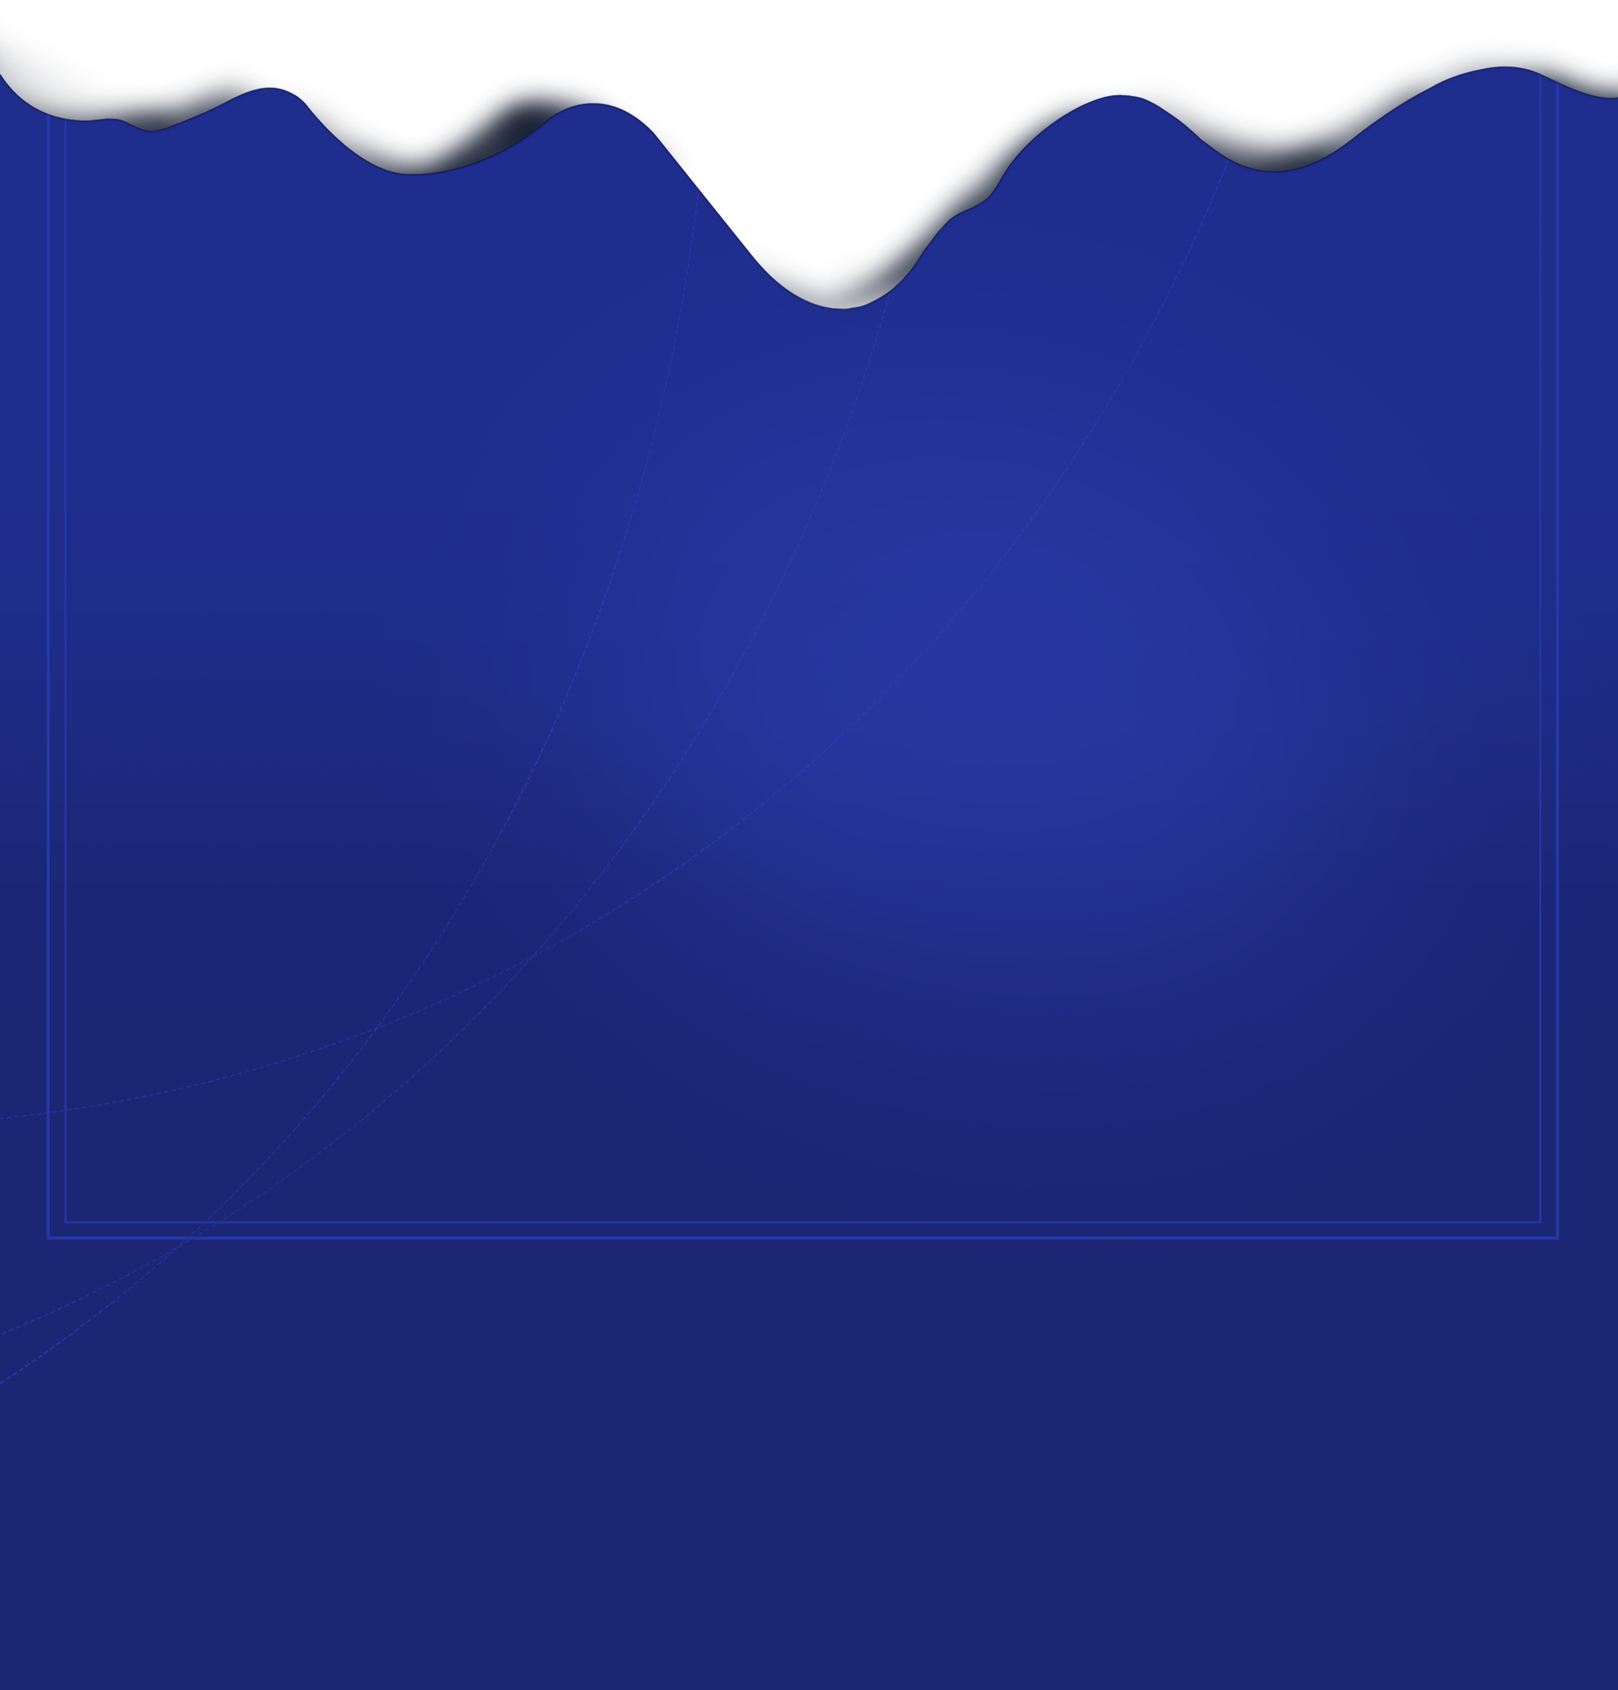
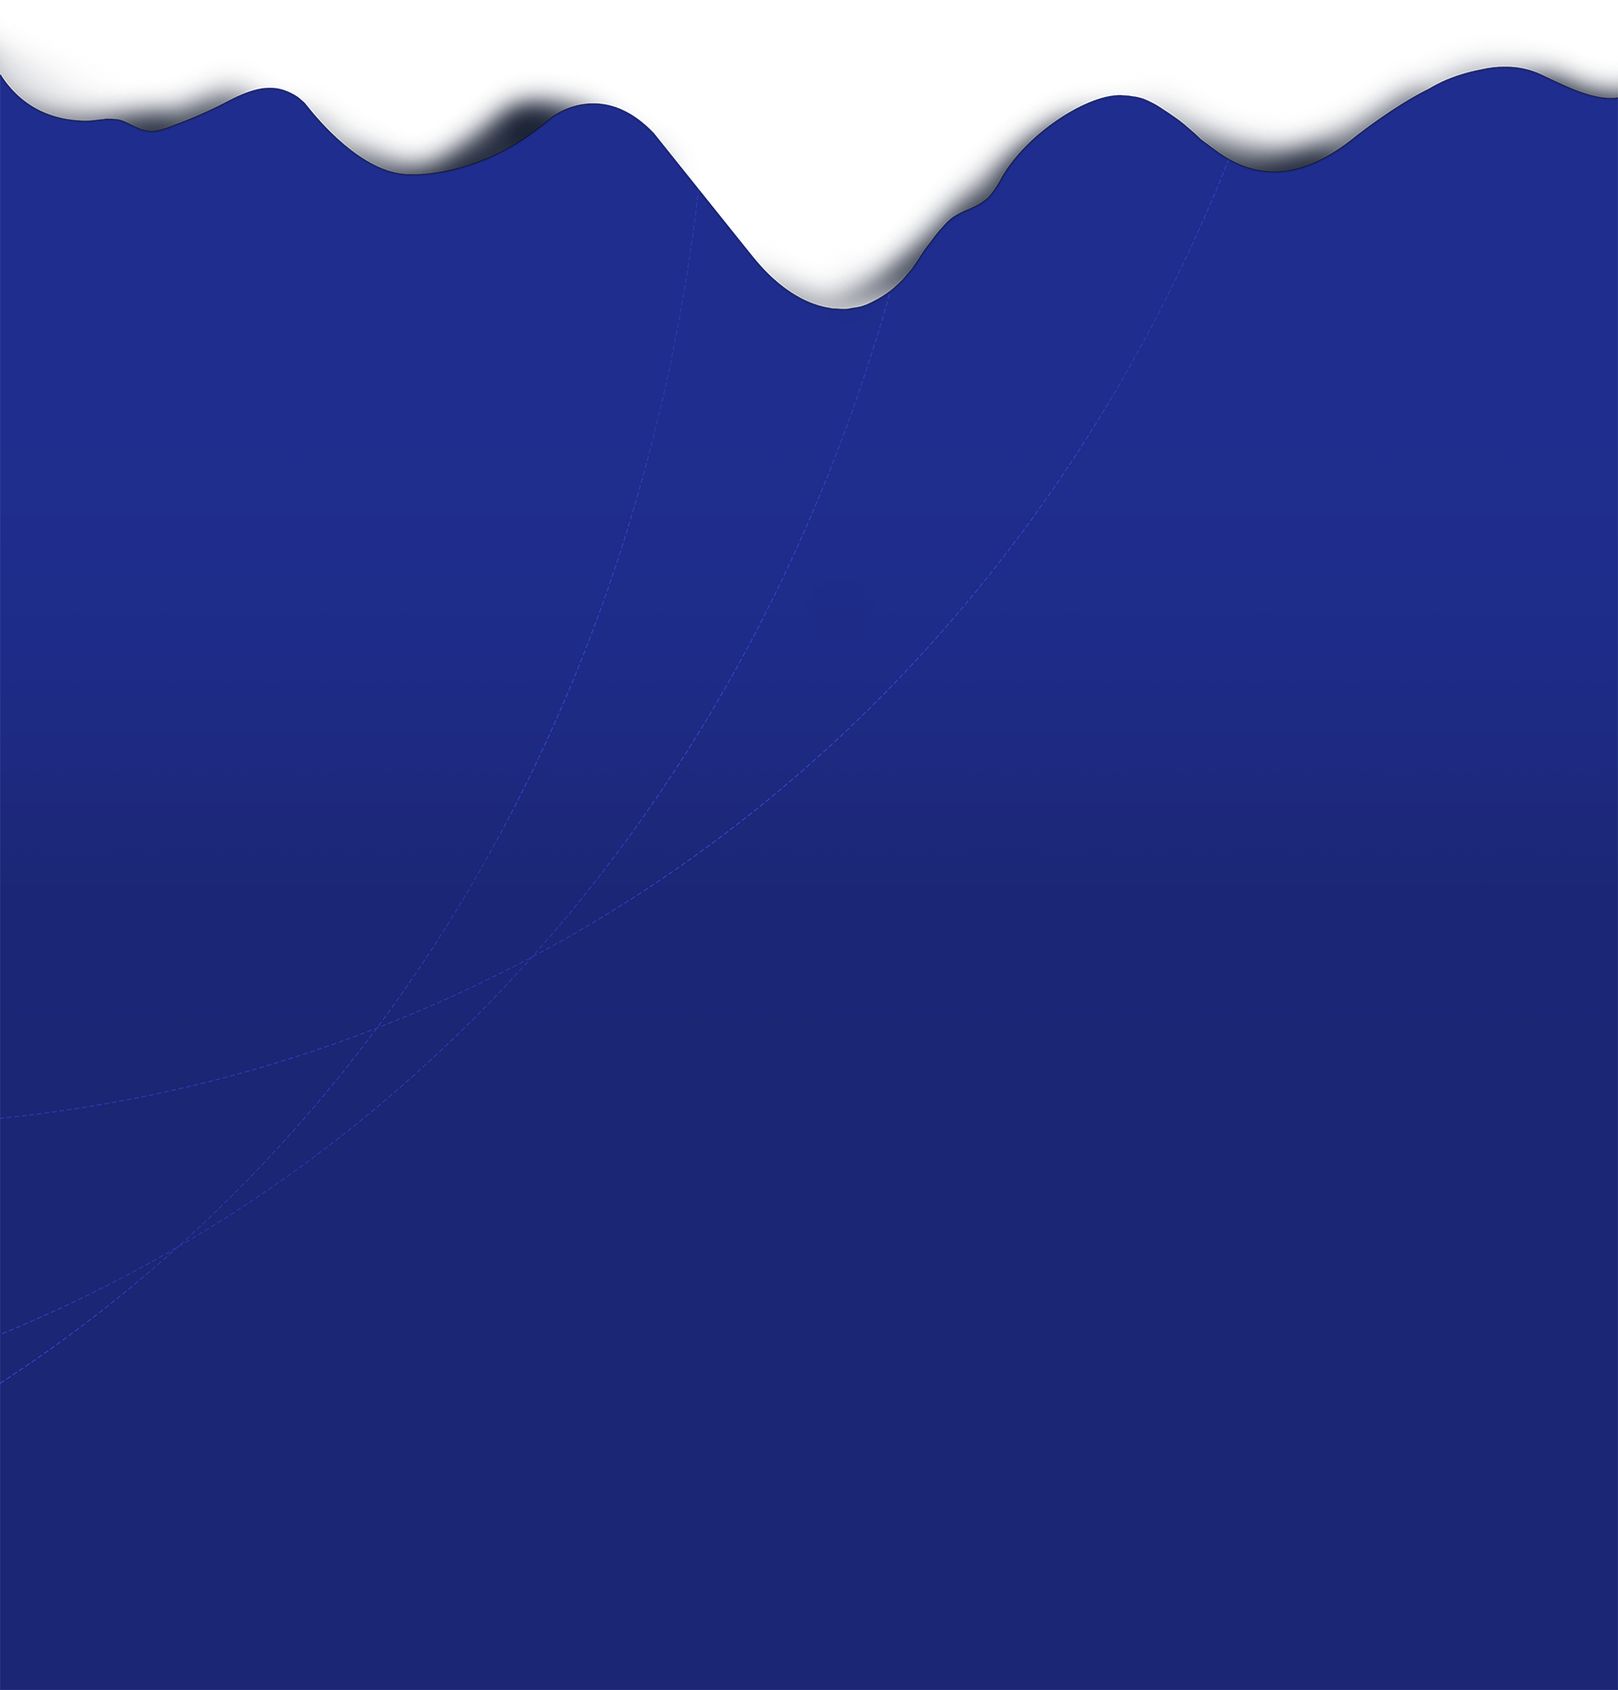
update

Changed region(s): [[0.4688, 0.3711, 0.7812, 0.5566], [0.9375, 0.7112, 0.9688, 0.7421]]

diff --git a/index.html b/index.html
@@ -118,18 +118,18 @@
             </div>
           </div>
           <div class="col-lg-6 pt-4 pt-lg-0 order-2 order-lg-1 content" data-aos="fade-right">
-            <h3>Epoch is one of the three E.M.I.T. systems, has three scenes and one NFT market.</h3>
+            <h3>Epoch is one of the three E.M.I.T. systems, has multiple scenes and NFT market.</h3>
             <p class="fst-italic">
               EMIT-Epoch hosts all economic actions and production processes in the EMIT multiverse and has infinite number of cumulative scenes.
             </p>
             <ul>
-              <li><i class="bi bi-check-circle"></i> <b>ALTER</b> - NFT creation and forging for the Epoch ecosystem.</li>
+              <li><i class="bi bi-check-circle"></i> <b>ALTAR</b> - NFT creation and forging for the Epoch ecosystem.</li>
               <li><i class="bi bi-check-circle"></i> <b>CHAOS</b> - For token generation in the Epoch ecosystem.</li>
               <li><i class="bi bi-check-circle"></i> <b>TEAM MINING</b> - Allows users to obtain NE and LIGHT more easily.</li>
               <li><i class="bi bi-check-circle"></i> <b>NFT MARKET</b> - For NFT trading in the Epoch ecosystem.</li>
               <li><i class="bi bi-check-circle"></i> <b>STAR GRID</b> - The first decentralized application scene based on the model of wargame deduction.</li>
             </ul>
-            <a href="https://docs.emit.technology/emit-documents/emit-community/emit-genesis-league" target="_blank" class="read-more">Read More <i class="bi bi-long-arrow-right"></i></a>
+            <a href="https://docs.emit.technology/emit-documents/" target="_blank" class="read-more">Read More <i class="bi bi-long-arrow-right"></i></a>
           </div>
         </div>
 
@@ -201,6 +201,17 @@
               </div>
             </div>
           </div>
+          <div>
+            <div class="row d-flex align-items-center justify-content-center" data-aos="zoom-in" data-aos-delay="150">
+              <div class="col-lg-6 col-11 order-1">
+                <img src="./assets/img/epoch/02/stargrid.png" class="img-fluid"/>
+              </div>
+              <div class="col-lg-6 col-10 order-2 justify-content-start mt-3">
+                <h2 class="text-dark">Star Grid</h2>
+                <div class="text-dark">The first decentralized application scene based on the model of wargame deduction.</div>
+              </div>
+            </div>
+          </div>
 
           <div class="section-title mt-5" data-aos="zoom-in" data-aos-delay="150">
             <h2 class="text-dark">Future Plan</h2>
@@ -208,23 +219,23 @@
           </div>
 
           <div class="row justify-content-center d-flex"   data-aos="fade-up">
-            <div class="row justify-content-center">
-              <div class="plan-cart plan-cart-bg1">
-                <div style="position: relative">
-                  <div>
-                    <div class="t">December 2021</div>
-                    <div class="c">StarGrid</div>
-                  </div>
-                  <div class="n">
-                    20<br/>21
-                  </div>
-                </div>
-                <div class="f">
-                  <div style="float: left;color: #fff">Clan</div>
-                  <div style="text-align: center">Official New Scene</div>
-                </div>
-              </div>
-            </div>
+<!--            <div class="row justify-content-center">-->
+<!--              <div class="plan-cart plan-cart-bg1">-->
+<!--                <div style="position: relative">-->
+<!--                  <div>-->
+<!--                    <div class="t">December 2021</div>-->
+<!--                    <div class="c">StarGrid</div>-->
+<!--                  </div>-->
+<!--                  <div class="n">-->
+<!--                    20<br/>21-->
+<!--                  </div>-->
+<!--                </div>-->
+<!--                <div class="f">-->
+<!--                  <div style="float: left;color: #fff">Clan</div>-->
+<!--                  <div style="text-align: center">Official New Scene</div>-->
+<!--                </div>-->
+<!--              </div>-->
+<!--            </div>-->
             <div class="row justify-content-md-center"  data-aos="fade-up">
               <div class="plan-cart plan-cart-bg1">
                 <div style="position: relative">
@@ -331,36 +342,30 @@
         <div class="faq-list">
           <ul>
             <li data-aos="fade-up" data-aos="fade-up" data-aos-delay="100">
-              <i class="bx bx-dollar-circle icon-help"></i> <a data-bs-toggle="collapse" class="collapse" data-bs-target="#faq-list-1">LIGHT <i class="bx bx-chevron-down icon-show"></i><i class="bx bx-chevron-up icon-close"></i></a>
+              <i class="bx bx-dollar-circle icon-help"></i> <a data-bs-toggle="collapse" class="collapse" data-bs-target="#faq-list-1">bLIGHT <i class="bx bx-chevron-down icon-show"></i><i class="bx bx-chevron-up icon-close"></i></a>
               <div id="faq-list-1" class="collapse show" data-bs-parent=".faq-list">
-                <p>1. Pre-issued 1M $LIGHT tokens, so all pre-issued tokens will be used for airdrops and community events.</p>
-                <p>2. The maximum number of $LIGHT produced per day is 100,000.</p>
-                <p>3. Miners produce LIGHT each day, of which around 20% of the tokens are destroyed and used for NFT creation and upgrades.</p>
+                <p>bLIGHT is the asset form of LIGHT on the BSC. LIGHT is an asset issued by EMIT on the SERO chain with a pre-issue of 1 million, all of which are used to provide liquidity and airdrop. LIGHT is produced by the Chaos scene, with a maximum daily output of 100,000. LIGHT can be converted to bLIGHT through EMIT cross-chain bridge. No ICO.</p>
               </div>
             </li>
 
             <li data-aos="fade-up" data-aos="fade-up" data-aos-delay="100">
-              <i class="bx bx-dollar-circle icon-help"></i> <a data-bs-toggle="collapse" class="collapse" data-bs-target="#faq-list-2">DARK <i class="bx bx-chevron-down icon-show"></i><i class="bx bx-chevron-up icon-close"></i></a>
+              <i class="bx bx-dollar-circle icon-help"></i> <a data-bs-toggle="collapse" class="collapse" data-bs-target="#faq-list-2">bDARK <i class="bx bx-chevron-down icon-show"></i><i class="bx bx-chevron-up icon-close"></i></a>
               <div id="faq-list-2" class="collapse show" data-bs-parent=".faq-list">
-                <p>DARK economic mechanism: TBD</p>
+                <p>bDARK is the asset form of DARK on the BSC. DARK is an asset issued by EMIT on the SERO chain with a pre-issue of 100,000, all of which are used to provide liquidity and airdrop. DARK is produced by the Chaos scene, with a maximum daily output of 100,000. DARK can be converted to bDARK through EMIT cross-chain bridge. No ICO.</p>
               </div>
             </li>
 
             <li data-aos="fade-up" data-aos="fade-up" data-aos-delay="100">
               <i class="bx bx-dollar-circle icon-help"></i> <a data-bs-toggle="collapse" class="collapse" data-bs-target="#faq-list-3">WATER <i class="bx bx-chevron-down icon-show"></i><i class="bx bx-chevron-up icon-close"></i></a>
               <div id="faq-list-3" class="collapse show" data-bs-parent=".faq-list">
-                <p>1. Pre-issued 1M $LIGHT tokens, so all pre-issued tokens will be used for airdrops and community events.</p>
-                <p>2. The maximum number of $LIGHT produced per day is 100,000.</p>
-                <p>3. Miners produce LIGHT each day, of which around 20% of the tokens are destroyed and used for NFT creation and upgrades.</p>
+                <p>The total number of tokens issued by EMIT on the BSC less than 100 million. 1,300,000 tokens are pre-issued and all of them are used to provide liquidity. The remainder will be produced by the StarGrid scene, with a maximum of 98,717 on the first day, and the maximum daily output decreasing thereafter. No ICO.</p>
               </div>
             </li>
 
             <li data-aos="fade-up" data-aos="fade-up" data-aos-delay="100">
               <i class="bx bx-dollar-circle icon-help"></i> <a data-bs-toggle="collapse" class="collapse" data-bs-target="#faq-list-4">EARTH <i class="bx bx-chevron-down icon-show"></i><i class="bx bx-chevron-up icon-close"></i></a>
               <div id="faq-list-4" class="collapse show" data-bs-parent=".faq-list">
-                <p>1. Pre-issued 1M $LIGHT tokens, so all pre-issued tokens will be used for airdrops and community events.</p>
-                <p>2. The maximum number of $LIGHT produced per day is 100,000.</p>
-                <p>3. Miners produce LIGHT each day, of which around 20% of the tokens are destroyed and used for NFT creation and upgrades.</p>
+                <p>EMIT issues tokens on the BSC, the total number of tokens less than 1 trillion. 2,500,000,000 are pre-issued and all of them are used to provide liquidity. The remainder will be produced by the StarGrid scene, with a maximum of 189,432,348 on the first day, and the maximum daily output decreasing thereafter. No ICO.</p>
               </div>
             </li>
 
@@ -425,19 +430,36 @@
 
           <div class="col-lg-4 col-md-6 portfolio-item filter-app" style="position: absolute; left: 880px; top: 0px;">
             <a href="assets/img/epoch/white.png" data-gallery="portfolioGallery" class="portfolio-lightbox" title="LIGHT AXE">
-            <div class="portfolio-wrap">
-              <img src="assets/img/epoch/white.png" class="img-fluid" alt="">
-              <div class="portfolio-info">
-                <h4>LIGHT AXE</h4>
-                <p style="padding: 6px">With DNA and "rarity", can only produce $LIGHT, and has a 98.44% chance of being born with a LIGHT AXE.</p>
+              <div class="portfolio-wrap">
+                <img src="assets/img/epoch/white.png" class="img-fluid" alt="">
+                <div class="portfolio-info">
+                  <h4>LIGHT AXE</h4>
+                  <p style="padding: 6px">With DNA and "rarity", can only produce $LIGHT, and has a 98.44% chance of being born with a LIGHT AXE.</p>
+                </div>
+                <div class="portfolio-links">
+                  <!--                <a href="assets/img/epoch/white.png" data-gallery="portfolioGallery" class="portfolio-lightbox" title="LIGHT AXE"><i class="bx bx-plus"></i></a>-->
+                  <!--                <a href="portfolio-details.html" title="More Details"><i class="bx bx-link"></i></a>-->
+                </div>
               </div>
-              <div class="portfolio-links">
-<!--                <a href="assets/img/epoch/white.png" data-gallery="portfolioGallery" class="portfolio-lightbox" title="LIGHT AXE"><i class="bx bx-plus"></i></a>-->
-<!--                <a href="portfolio-details.html" title="More Details"><i class="bx bx-link"></i></a>-->
-              </div>
-            </div>
             </a>
           </div>
+
+          <div class="col-lg-4 col-md-6 portfolio-item filter-app" style="position: absolute; left: 880px; top: 569px;">
+            <a href="assets/img/epoch/dark.png" data-gallery="portfolioGallery" class="portfolio-lightbox" title="DARK AXE">
+              <div class="portfolio-wrap">
+                <img src="assets/img/epoch/dark.png" class="img-fluid" alt="">
+                <div class="portfolio-info">
+                  <h4>DARK AXE</h4>
+                  <p style="padding: 6px">With DNA and "rarity", can produce $DARK or $LIGHT and $DARK, the probability of dark attribute AXE being born is 1.56%.</p>
+                </div>
+                <div class="portfolio-links">
+                  <!--                <a href="assets/img/epoch/dark.png" data-gallery="portfolioGallery" class="portfolio-lightbox" title="DARK AXE"><i class="bx bx-plus"></i></a>-->
+                  <!--                <a href="portfolio-details.html" title="More Details"><i class="bx bx-link"></i></a>-->
+                </div>
+              </div>
+            </a>
+          </div>
+
 
           <div class="col-lg-4 col-md-6 portfolio-item filter-card" style="position: absolute; left: 880px; top: 264px;">
             <a href="assets/img/epoch/white_sword.png" data-gallery="portfolioGallery" class="portfolio-lightbox" title="WATER COUNTER">
@@ -485,19 +507,19 @@
             </a>
           </div>
 
-          <div class="col-lg-4 col-md-6 portfolio-item filter-app" style="position: absolute; left: 880px; top: 569px;">
-            <a href="assets/img/epoch/dark.png" data-gallery="portfolioGallery" class="portfolio-lightbox" title="DARK AXE">
-            <div class="portfolio-wrap">
-              <img src="assets/img/epoch/dark.png" class="img-fluid" alt="">
-              <div class="portfolio-info">
-                <h4>DARK AXE</h4>
-                <p style="padding: 6px">With DNA and "rarity", can produce $DARK or $LIGHT and $DARK, the probability of dark attribute AXE being born is 1.56%.</p>
+          <div class="col-lg-4 col-md-6 portfolio-item filter-app" style="position: absolute; left: 880px; top: 0px;">
+            <a href="assets/img/epoch/tag-desc.png" data-gallery="portfolioGallery" class="portfolio-lightbox" title="LIGHT AXE">
+              <div class="portfolio-wrap">
+                <img src="assets/img/epoch/tag-desc.png" class="img-fluid" alt="">
+                <div class="portfolio-info">
+                  <h4>AXE Category</h4>
+                  <p style="padding: 6px"></p>
+                </div>
+                <div class="portfolio-links">
+                  <!--                <a href="assets/img/epoch/white.png" data-gallery="portfolioGallery" class="portfolio-lightbox" title="LIGHT AXE"><i class="bx bx-plus"></i></a>-->
+                  <!--                <a href="portfolio-details.html" title="More Details"><i class="bx bx-link"></i></a>-->
+                </div>
               </div>
-              <div class="portfolio-links">
-<!--                <a href="assets/img/epoch/dark.png" data-gallery="portfolioGallery" class="portfolio-lightbox" title="DARK AXE"><i class="bx bx-plus"></i></a>-->
-<!--                <a href="portfolio-details.html" title="More Details"><i class="bx bx-link"></i></a>-->
-              </div>
-            </div>
             </a>
           </div>
 
@@ -570,7 +592,7 @@
           <div class="col-lg-3 col-md-6 footer-links">
             <h4>EMIT Documents</h4>
             <ul>
-              <li><i class="bx bx-chevron-right"></i> <a href="https://emit.technology" target="_blank">Website</a></li>
+              <li><i class="bx bx-chevron-right"></i> <a href="https://emit.technology" target="_blank">Official Website</a></li>
               <li><i class="bx bx-chevron-right"></i> <a href="https://docs.emit.technology/emit-documents/emit-epoch/nft-marketplace" target="_blank">NFT Marketplace</a></li>
               <li><i class="bx bx-chevron-right"></i> <a href="https://docs.emit.technology/emit-documents/emit-epoch/origin-universe/team-mining" target="_blank">Team Mining</a></li>
               <li><i class="bx bx-chevron-right"></i> <a href="https://docs.emit.technology/emit-documents/emit-epoch/epoch-mining-qa" target="_blank">Epoch Mining QA</a></li>
@@ -581,9 +603,9 @@
           <div class="col-lg-4 col-md-6 footer-links">
             <h4>Legal and Privacy</h4>
             <ul>
-              <li><i class="bx bx-chevron-right"></i> <a href="https://docs.emit.technology/emit-documents/emit-disclosures/epoch-tokens-disclosures">Disclosures</a></li>
-              <li><i class="bx bx-chevron-right"></i> <a href="#">Terms-Of-Service</a></li>
-              <li><i class="bx bx-chevron-right"></i> <a href="#">Privacy-Policy</a></li>
+              <li><i class="bx bx-chevron-right"></i> <a href="https://docs.emit.technology/emit-documents/emit-disclosures/epoch-tokens-disclosures" target="_blank">Disclosures</a></li>
+              <li><i class="bx bx-chevron-right"></i> <a href="https://emit.technology/wallet/terms-of-service.html" target="_blank">Terms-Of-Service</a></li>
+              <li><i class="bx bx-chevron-right"></i> <a href="https://emit.technology/wallet/privacy-policy.html" target="_blank">Privacy-Policy</a></li>
             </ul>
           </div>
 
@@ -605,7 +627,7 @@
           <a href="https://twitter.com/emit_protocol" class="twitter"><i class="bx bxl-twitter"></i></a>
           <a href="https://www.facebook.com/EMITProtocol" class="facebook"><i class="bx bxl-facebook"></i></a>
           <a href="https://t.me/emit_protocol" class="instagram"><i class="bx bxl-telegram"></i></a>
-          <a href="https://discord.gg/AMFnCJKkZ4" class="google-plus"><i class="bx bxl-discord"></i></a>
+          <a href="https://discord.gg/aWwNeW3uer" class="google-plus"><i class="bx bxl-discord"></i></a>
           <a href="https://www.reddit.com/r/emit_protocol" class="linkedin"><i class="bx bxl-reddit"></i></a>
           <a href="https://emitprotocol.medium.com/" class="linkedin"><i class="bx bxl-medium"></i></a>
           <a href="https://www.youtube.com/channel/UCKlH9YDE_ackvCbwu8Axu9A" class="linkedin"><i class="bx bxl-youtube"></i></a>

diff --git a/assets/css/style.css b/assets/css/style.css
@@ -617,7 +617,7 @@ section {
 # About
 --------------------------------------------------------------*/
 .about {
-  padding: 120px 0;
+  padding: 100px 0;
 }
 .about .content h3 {
   font-weight: 600;
@@ -713,11 +713,11 @@ section {
 # Services
 --------------------------------------------------------------*/
 .services {
-  background-image: url(../img/epoch/02/bg_03.png), linear-gradient(#222e88 10%, #222e88 0%,#f3f3f4 15%);
+  background-image: url(../img/epoch/02/bg_03.png);
   background-repeat: no-repeat;
+  background-color: #f2f2f4;
   background-size: 100%;
   color: #000;
-  min-height: 200vh;
 }
 .road-ct {
 
